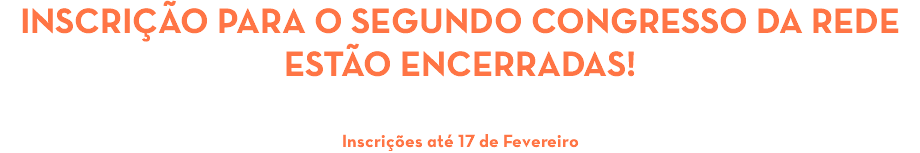
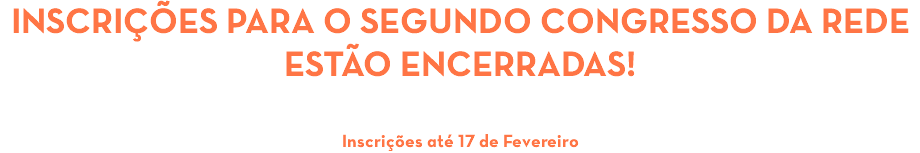
Correção de texto

Changed region(s): [[0.0, 0.0, 1.0, 0.2876]]

diff --git a/_site/index.html b/_site/index.html
@@ -1134,7 +1134,7 @@
      <a class="nonblock nontext anim_swing Estilo clip_frame mse_pre_init" id="u34920" href="index.html#importante" data-href="anchor:U69:U34944" data-muse-uid="U34920" data-muse-type="img_frame"><!-- image --><img class="block" id="u34920_img" src="images/bimportante.jpg" alt="" width="300" height="50" data-muse-src="images/bimportante.jpg"/></a>
      <!-- /m_editable -->
     </div>
-    <a class="nonblock nontext colelem" id="u11801-9" href="http://#"><!-- rasterized frame --><img id="u11801-9_img" alt="INSCRIÇÃO PARA O SEGUNDO CONGRESSO DA REDE ESTÃO ENCERRADAS! Inscrições até 17 de Fevereiro " width="920" height="153" src="images/u11801-9.png"/></a>
+    <a class="nonblock nontext colelem" id="u11801-9" href="http://#"><!-- rasterized frame --><img id="u11801-9_img" alt="INSCRIÇÕES PARA O SEGUNDO CONGRESSO DA REDE ESTÃO ENCERRADAS! Inscrições até 17 de Fevereiro " width="920" height="153" src="images/u11801-9.png"/></a>
     <a class="anchor_item colelem" id="video"></a>
     <div class="colelem" id="u34943"><!-- custom html -->
              
@@ -1337,7 +1337,7 @@ $('#u64804-bw').registerPositionScrollEffect([{"in":[-Infinity,299.76],"speed":[
 $('#menuu64805').registerPositionScrollEffect([{"in":[-Infinity,299.79],"speed":[0,1]},{"in":[299.79,Infinity],"speed":[0,0]}]);/* scroll effect */
 $('#u34919-bw').registerPositionScrollEffect([{"in":[-Infinity,300],"speed":[null,1]},{"in":[300,Infinity],"speed":[null,0]}]);/* scroll effect */
 $('#u34920').registerPositionScrollEffect([{"in":[-Infinity,300],"speed":[0,1]},{"in":[300,Infinity],"speed":[0,0]}]);/* scroll effect */
-$('#u8838-5').registerOpacityScrollEffect([{"fade":50,"in":[-Infinity,2752.15],"opacity":50},{"in":[2752.15,2752.15],"opacity":89},{"fade":50,"in":[2752.15,Infinity],"opacity":0}]);/* scroll effect */
+$('#u8838-5').registerOpacityScrollEffect([{"opacity":50,"fade":50,"in":[-Infinity,2752.15]},{"in":[2752.15,2752.15],"opacity":89},{"opacity":0,"fade":50,"in":[2752.15,Infinity]}]);/* scroll effect */
 Muse.Utils.showWidgetsWhenReady();/* body */
 Muse.Utils.transformMarkupToFixBrowserProblems();/* body */
 } catch(e) { if (e && 'function' == typeof e.notify) e.notify(); else Muse.Assert.fail('Error calling selector function:' + e); }});
